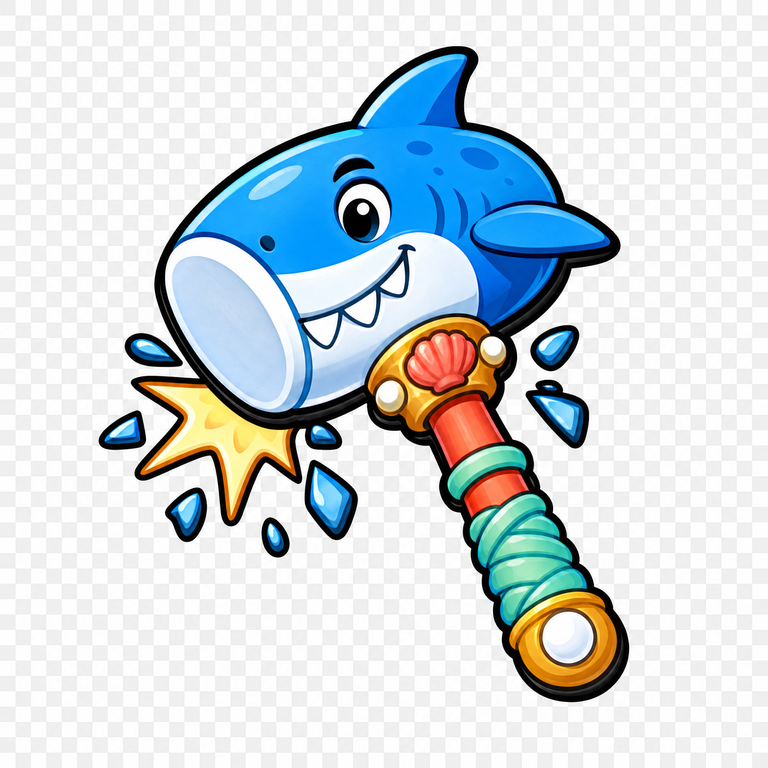
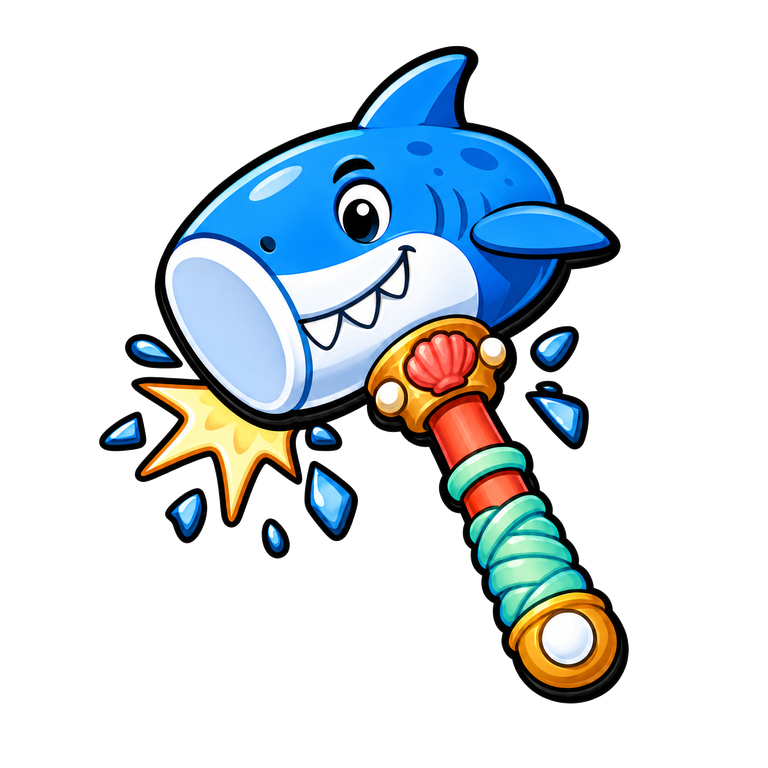
Checkpoint: 상어 망치의 흰색 배경을 실제 알파 투명 영역으로 제거하고 캐릭터·외곽선 선명도를 약 40% 강화했습니다. 횟수 숫자는 소진 여부와 관계없이 몬스터 이름과 동일한 어두운 노란색으로 고정했으며, 기존 3포인트 확대와 활성·사용 애니메이션을 유지했습니다. TypeScript 검사와 Vitest 34개 테스트를 통과했습니다.

diff --git a/app/(tabs)/index.tsx b/app/(tabs)/index.tsx
@@ -1608,7 +1608,7 @@ export default function HomeScreen() {
           <Animated.View style={[styles.hammerPilesAnimated, { width: cardWidth, height: cardWidth * renderCardRatio }, { opacity: hammerCharges > 0 ? hammerShine.interpolate({ inputRange: [0, 1], outputRange: [0.82, 1] }) : 0.72 }, { transform: [{ translateX: hammerImpact.interpolate({ inputRange: [-1, 1], outputRange: [-4, 4] }) }, { rotate: hammerImpact.interpolate({ inputRange: [-1, 1], outputRange: ["-5deg", "5deg"] }) }, { scale: hammerCharges > 0 ? hammerShine.interpolate({ inputRange: [0, 1], outputRange: [1, 1.08] }) : 1 }] }]}> 
             <Pressable accessibilityRole="button" accessibilityLabel={`망치 ${hammerCharges}개 남음`} onPress={() => beginHammerMode()} style={({ pressed }) => [styles.hammerPilesButton, { width: cardWidth, height: cardWidth * renderCardRatio }, hammerCharges > 0 && styles.hammerPilesButtonReady, pressed && styles.pressed]}>
               <Image source={HAMMER_ICON_ART} resizeMode="contain" style={[styles.hammerPilesIcon, { width: Math.min(cardWidth * 0.9, 58), height: Math.min(cardWidth * 0.9, 58) }]} />
-              <Text style={[styles.hammerPilesCount, hammerCharges <= 0 && styles.hammerPilesCountEmpty, { fontSize: Math.max(15, Math.round(cardWidth * 0.18) + 5) }]}>{hammerCharges}/3</Text>
+              <Text style={[styles.hammerPilesCount, { fontSize: Math.max(15, Math.round(cardWidth * 0.18) + 5) }]}>{hammerCharges}/3</Text>
             </Pressable>
           </Animated.View>
           <View style={[styles.foundationGroup, { gap: Math.max(3, Math.round(cardWidth * 0.08)) }]}>
@@ -1967,8 +1967,8 @@ const styles = StyleSheet.create({
   hammerPilesButton: { alignItems: "center", justifyContent: "center", borderRadius: 12, borderWidth: 0, borderColor: "transparent", backgroundColor: "transparent", shadowOpacity: 0, elevation: 0 },
   hammerPilesButtonReady: { borderWidth: 0, borderColor: "transparent", backgroundColor: "transparent", shadowOpacity: 0, elevation: 0 },
   hammerPilesIcon: { marginTop: -2 },
-  hammerPilesCount: { color: "#FFF3D1", lineHeight: 18, fontWeight: "900", marginTop: -1, textShadowColor: "#17233C", textShadowRadius: 2 },
-  hammerPilesCountEmpty: { color: "#FF5B67", textShadowColor: "#2B0E18", textShadowRadius: 3 },
+  hammerPilesCount: { color: "#F3C969", lineHeight: 18, fontWeight: "900", marginTop: -1, textShadowColor: "#17233C", textShadowRadius: 2 },
+  hammerPilesCountEmpty: { color: "#F3C969", textShadowColor: "#17233C", textShadowRadius: 2 },
   hintButton: { backgroundColor: "#233958", borderColor: "#3D5A85" },
   undoButton: { backgroundColor: "#2A4268", borderColor: "#5B78A5" },
   undoButtonDisabled: { opacity: 0.38 },

diff --git a/scripts/remove_hammer_background.py b/scripts/remove_hammer_background.py
@@ -1,0 +1,40 @@
+from collections import deque
+from pathlib import Path
+from PIL import Image
+
+source = Path('/home/ubuntu/webdev-static-assets/card-breaker-shark-hammer-transparent-enhanced.png')
+output = Path('/home/ubuntu/our-style-solitaire/assets/images/card-breaker-shark-hammer.png')
+image = Image.open(source).convert('RGBA')
+width, height = image.size
+pixels = image.load()
+
+# Remove only bright neutral pixels connected to the image border.
+# This preserves white teeth/highlights enclosed by the dark character outline.
+def removable(x: int, y: int) -> bool:
+    r, g, b, _ = pixels[x, y]
+    return min(r, g, b) >= 218 and max(r, g, b) - min(r, g, b) <= 20
+
+visited = bytearray(width * height)
+queue = deque()
+for x in range(width):
+    queue.append((x, 0)); queue.append((x, height - 1))
+for y in range(height):
+    queue.append((0, y)); queue.append((width - 1, y))
+
+while queue:
+    x, y = queue.popleft()
+    index = y * width + x
+    if visited[index] or not removable(x, y):
+        continue
+    visited[index] = 1
+    r, g, b, _ = pixels[x, y]
+    pixels[x, y] = (r, g, b, 0)
+    if x > 0: queue.append((x - 1, y))
+    if x + 1 < width: queue.append((x + 1, y))
+    if y > 0: queue.append((x, y - 1))
+    if y + 1 < height: queue.append((x, y + 1))
+
+# Keep the full subject while reducing the asset for mobile use.
+image.thumbnail((768, 768), Image.Resampling.LANCZOS)
+image.save(output, 'PNG', optimize=True)
+print(f'written={output} size={output.stat().st_size} dimensions={image.size}')

diff --git a/scripts/check_hammer_alpha.py b/scripts/check_hammer_alpha.py
@@ -1,0 +1,16 @@
+from PIL import Image
+from pathlib import Path
+
+path = Path('/home/ubuntu/webdev-static-assets/card-breaker-shark-hammer-transparent-enhanced.png')
+image = Image.open(path).convert('RGBA')
+print('size=', image.size)
+print('corner_pixels=', [image.getpixel(p) for p in [(0, 0), (image.width - 1, 0), (0, image.height - 1), (image.width - 1, image.height - 1)]])
+print('alpha_extrema=', image.getchannel('A').getextrema())
+print('mode=', image.mode)
+
+project = Path('/home/ubuntu/our-style-solitaire/assets/images/card-breaker-shark-hammer.png')
+if project.exists():
+    p = Image.open(project).convert('RGBA')
+    print('project_size=', p.size)
+    print('project_corner_pixels=', [p.getpixel(q) for q in [(0, 0), (p.width - 1, 0), (0, p.height - 1), (p.width - 1, p.height - 1)]])
+    print('project_alpha_extrema=', p.getchannel('A').getextrema())

diff --git a/todo.md b/todo.md
@@ -406,3 +406,6 @@
 - [x] 상어 망치 색상 대비·윤곽을 현재보다 40% 진하게 보정
 - [x] 상어 망치 아래 횟수 숫자 글자 크기를 3포인트 확대
 - [x] 투명 배경·활성 애니메이션·숫자 가독성 회귀 테스트
+- [x] 상어 망치 이미지의 흰색 배경을 완전히 제거하고 선명도 40% 강화
+- [x] 망치 아래 횟수 글자를 항상 어두운 노란색으로 고정
+- [x] 투명 배경·선명도·횟수 색상 회귀 테스트
